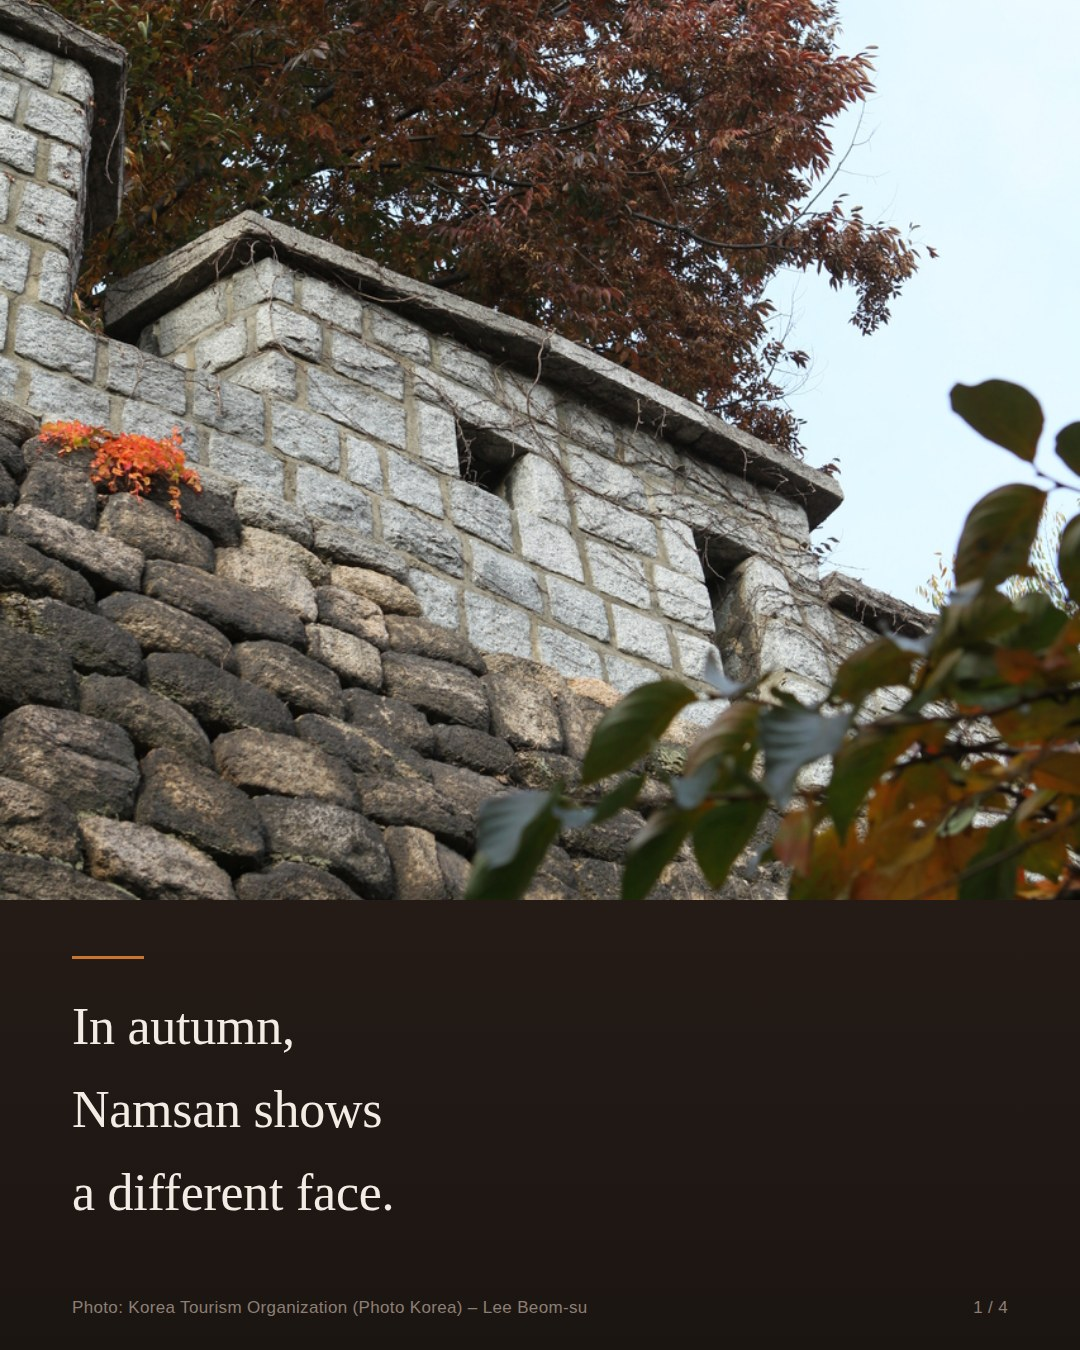
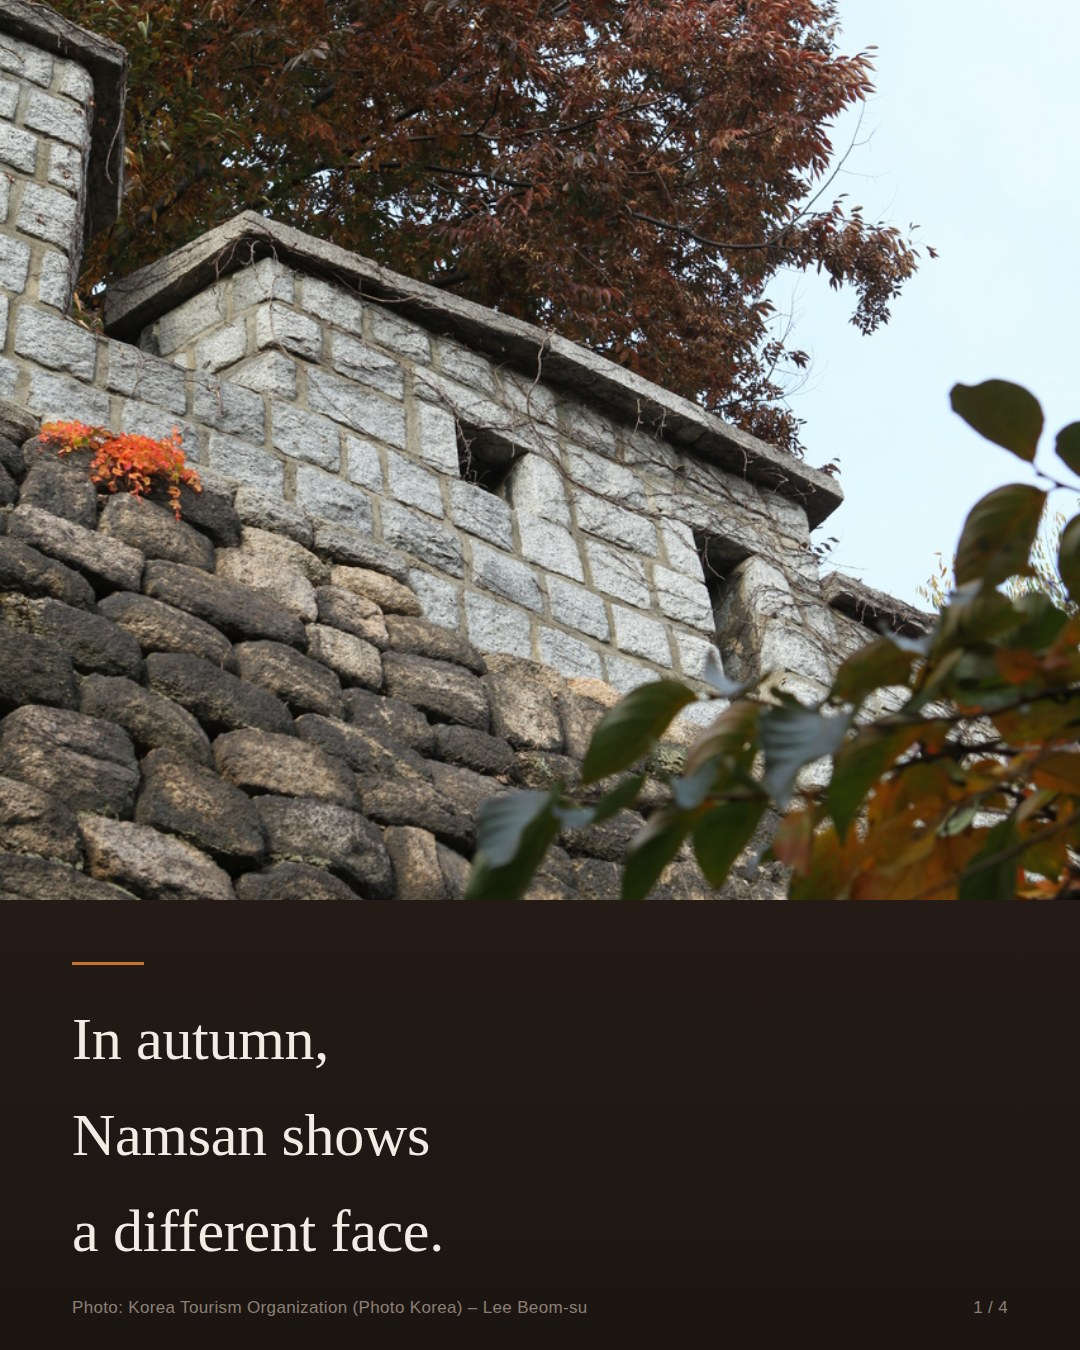
가을 남산 카드 — 영어·일본어 두 벌, 글을 짧게
사장님 (2026-10-06): "영어 일어 / 만들어 카드내용 짧게"

✂ 한 장에 서너 줄로 줄이고 글씨를 키웠다. 인스타 카드는 넘기면서
   1~2초 본다 — 네 줄짜리 문단은 안 읽힌다.
   사장님이 쓰신 한국어 원문은 스크립트 맨 아래 주석에 그대로 남겼다.

🇯🇵 일본어가 제 벌(namsan-ja-1~4)을 갖게 됐다.
   명조가 아니라 고딕을 쓴다 — 러너에 일본어 명조가 없어서 명조로 두면
   다른 글꼴로 조용히 바뀐다. 글꼴이 섞이면 화면만 봐선 못 잡는다.
   pane 에 lang 을 달아 글자가 제 말에 맞게 골라지게 했다.

🚫 中文·日本語 반반 벌(cj)은 없앴다. 일본어가 따로 생겨 반반 칸이
   쓸모없어졌다. **中文은 지금 카드가 없다** — 필요하면 SETS 에 zh 를
   한 벌 더 넣으면 된다. 올릴글 ②번에 中文 캡션은 남겨 뒀다.

🔎 스크립트의 넘침 검사가 일을 했다. 3번 카드가 네 줄이라 영어·일본어
   둘 다 "출처에 닿는다"로 걸렸다 — 세 줄로 줄여 여덟 장 다 깨끗하다.
   화면만 봐서는 못 잡는 자리다.

Claude-Session: https://claude.ai/code/session_01A7xqiK6zVBc7iEkScg4rVL

Changed region(s): [[0.0611, 0.7467, 0.3972, 0.9333], [0.0611, 0.6844, 0.1222, 0.7156]]

diff --git a/docs/가을남산-카드/읽어보세요.md b/docs/가을남산-카드/읽어보세요.md
@@ -11,7 +11,14 @@
 | 벌 | 장 | 무엇 |
 |---|---|---|
 | `namsan-en-1~4.jpg` | 4 | 영어 |
-| `namsan-cj-1~4.jpg` | 4 | **중국어·일본어 반반** (왼쪽 中文 · 오른쪽 日本語) |
+| `namsan-ja-1~4.jpg` | 4 | 일본어 |
+
+✂ **2026-10-06에 글을 짧게 줄였다** (사장님: *"영어 일어 / 만들어 카드내용 짧게"*).
+한 장에 서너 줄, 글씨는 키웠다 — 인스타 카드는 넘기면서 **1~2초** 본다.
+
+🚫 **中文·日本語 반반 벌(`namsan-cj-*`)은 없앴다.** 일본어가 제 벌을 갖게 되어
+반반 칸이 쓸모가 없어졌다. **中文은 지금 카드가 없다** — 필요하면 스크립트의
+`SETS` 에 `zh` 를 한 벌 더 넣으면 된다(한국어 원문이 스크립트 맨 아래에 있다).
 
 1080×1350(인스타 세로) · 한 장 300KB 안팎.
 
